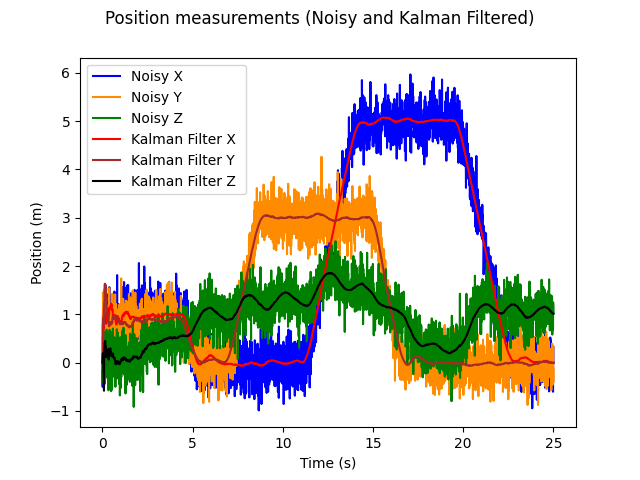
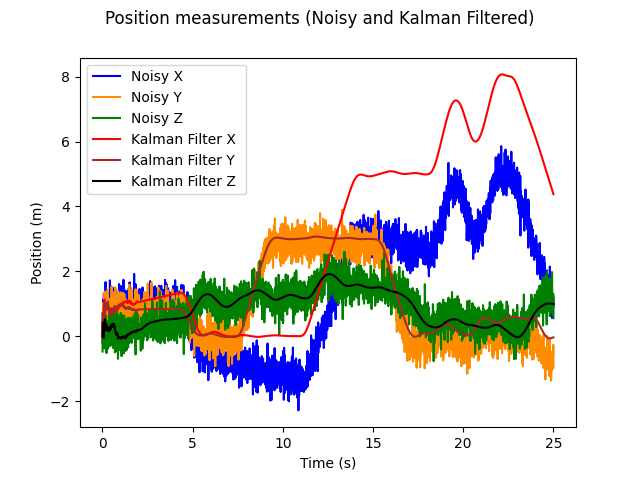
Part 2: Relying on acceleromter

diff --git a/controllers/main/exercises/ex2_kalman_filter.py b/controllers/main/exercises/ex2_kalman_filter.py
@@ -21,7 +21,7 @@ class kalman_filter():
         self.use_direct_noisy_measurement = False # Enable this to test the drone response when the nosiy sensor measurement is used directly
         self.use_direct_ground_truth_measurement = False # Enable this to test the drone response when the ground truth state is used directly
         self.use_KF_measurement = True # Enable this to test the drone response when the Kalman Filter is used to estimate the state
-        self.use_accel_only = False # Enable this to test the drone response when only accelerometer measurements are used in the Kalman Filter (Part 2)
+        self.use_accel_only = True # Enable this to test the drone response when only accelerometer measurements are used in the Kalman Filter (Part 2)
 
         # Simulation time after which plots are generated
         self.plot_time_limit = 25.0
